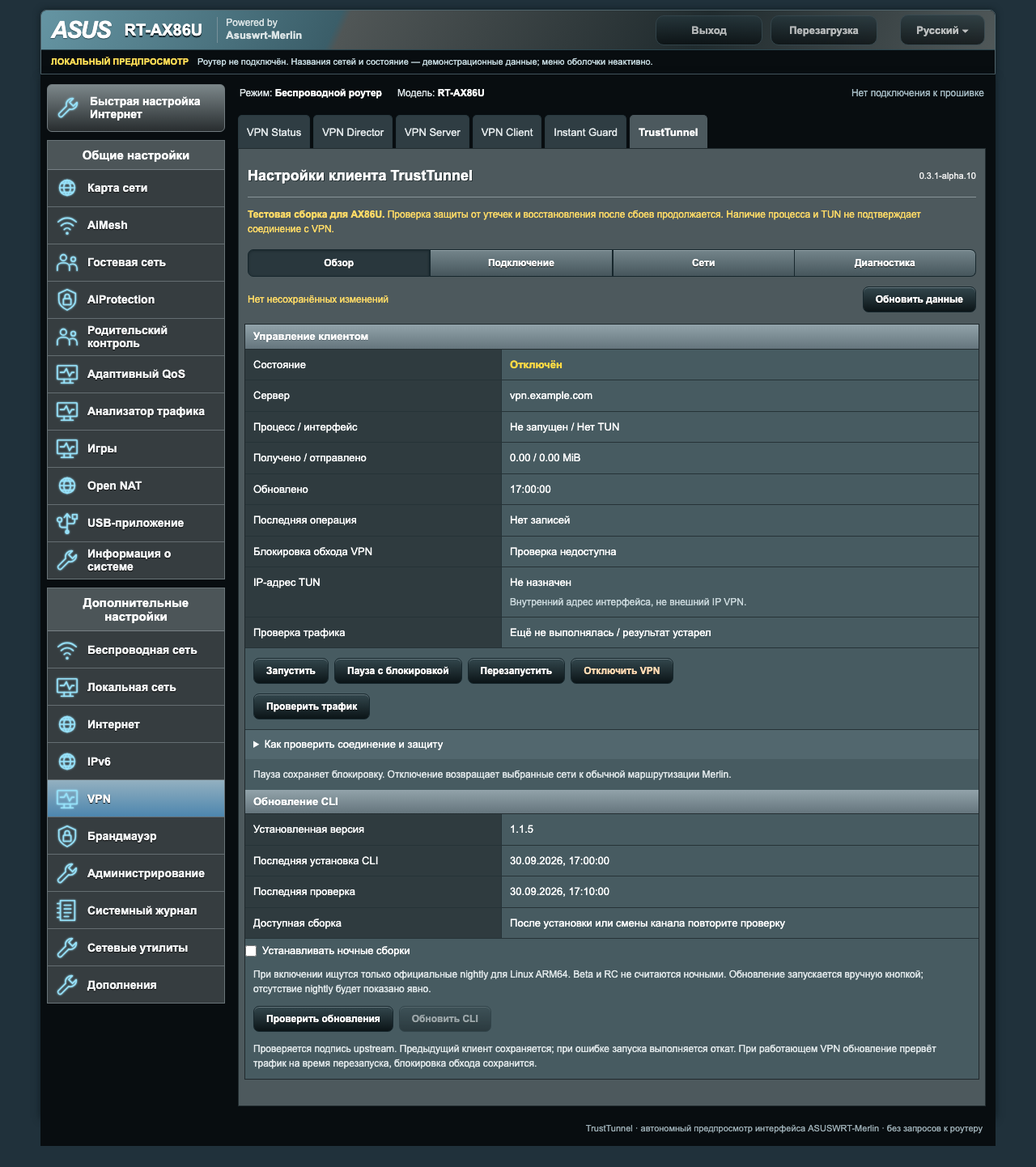
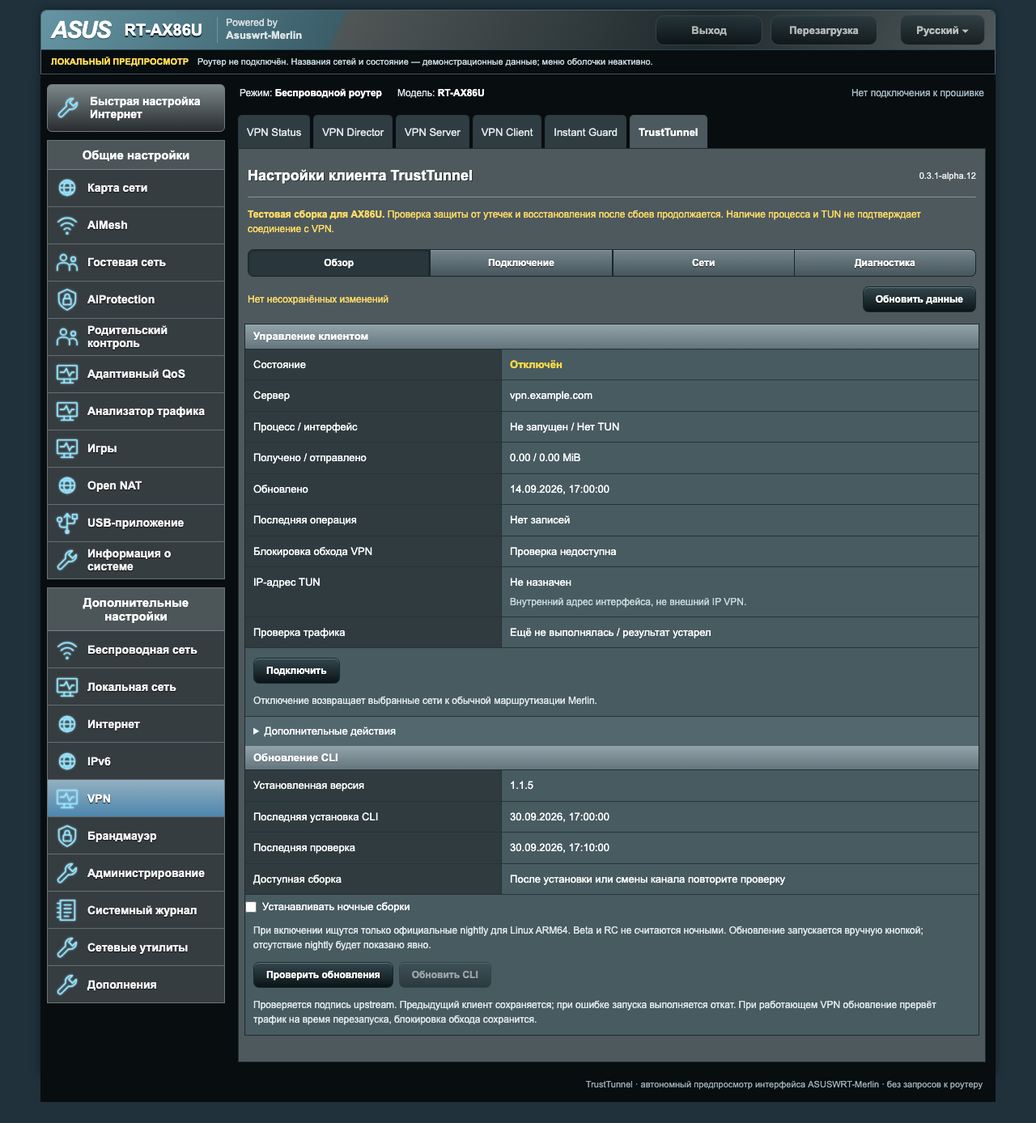
Упростить управление подключением одной кнопкой

diff --git a/preview/index.html b/preview/index.html
@@ -180,7 +180,7 @@ body{padding:0;background:#4c595e}
 .preview-tabs{padding:0 8px;gap:4px}.preview-tab{display:none;min-height:35px;padding:0 12px;font-size:12px}.preview-tab.preview-client,.preview-tab[aria-current=page]{display:flex}
 #footer{padding:12px;font-size:10px;text-align:left}
 }
-</style><script>window.TTM_PREVIEW={"version": "0.3.1-alpha.11", "state": "disabled", "hostname": "vpn.example.com", "process_running": false, "interface_up": false, "enabled": false, "connection_verified": false, "rx_bytes": 0, "tx_bytes": 0, "timestamp": 1789394400, "last_result": "preview:not_executed", "endpoint": {"configured": true, "exclusions": []}, "tunnel_addresses": [], "traffic_check": null, "client_updates": {"channel": "stable", "installed": {"version": "1.1.5", "installed_at": 1790776800}, "last_check": {"checked_at": 1790777400, "channel": "stable"}, "dependencies_ready": true, "recovery_pending": false, "check": null}, "revision": "0123456789abcdef", "operations": [], "transaction": null, "clients": [{"ip": "192.168.51.10", "name": "\u041d\u043e\u0443\u0442\u0431\u0443\u043a", "wireless": [{"lan_if": "br1", "ssid": "Guest 1"}]}, {"ip": "192.168.50.20", "name": "\u0422\u0435\u043b\u0435\u0444\u043e\u043d", "wireless": [{"lan_if": "br0", "ssid": "Home"}]}], "diagnostics": {"model": "RT-AX86U", "firmware": "\u041d\u0435 \u043f\u0440\u043e\u0432\u0435\u0440\u0435\u043d\u0430", "guard": "unverified", "client_version_target": "1.1.5", "packet_path_verified": false}, "discovered_networks": [{"lan_if": "br0", "identity": "0000000000000000000000000000000000000000000000000000000000000000", "sources": ["192.168.50.0/24"], "ssids": ["Home"]}, {"lan_if": "br1", "identity": "1111111111111111111111111111111111111111111111111111111111111111", "sources": ["192.168.51.0/24"], "ssids": ["Guest 1"]}, {"lan_if": "br2", "identity": "2222222222222222222222222222222222222222222222222222222222222222", "sources": ["192.168.52.0/24"], "ssids": ["Guest 2"]}, {"lan_if": "br3", "identity": "3333333333333333333333333333333333333333333333333333333333333333", "sources": ["192.168.53.0/24"], "ssids": ["Guest 3"]}], "policy": {"schema": 3, "networks": [{"lan_if": "br1", "sources": ["192.168.51.0/24"]}], "block_ipv6_bridge": true, "table": 871, "priority": 17100}, "hardware_tested": false};</script><script>/* TrustTunnel v1 deep links, checked against TrustTunnel v1.0.33/deeplink.
+</style><script>window.TTM_PREVIEW={"version": "0.3.1-alpha.12", "state": "disabled", "hostname": "vpn.example.com", "process_running": false, "interface_up": false, "enabled": false, "connection_verified": false, "rx_bytes": 0, "tx_bytes": 0, "timestamp": 1789394400, "last_result": "preview:not_executed", "endpoint": {"configured": true, "exclusions": []}, "tunnel_addresses": [], "traffic_check": null, "client_updates": {"channel": "stable", "installed": {"version": "1.1.5", "installed_at": 1790776800}, "last_check": {"checked_at": 1790777400, "channel": "stable"}, "dependencies_ready": true, "recovery_pending": false, "check": null}, "revision": "0123456789abcdef", "operations": [], "transaction": null, "clients": [{"ip": "192.168.51.10", "name": "\u041d\u043e\u0443\u0442\u0431\u0443\u043a", "wireless": [{"lan_if": "br1", "ssid": "Guest 1"}]}, {"ip": "192.168.50.20", "name": "\u0422\u0435\u043b\u0435\u0444\u043e\u043d", "wireless": [{"lan_if": "br0", "ssid": "Home"}]}], "diagnostics": {"model": "RT-AX86U", "firmware": "\u041d\u0435 \u043f\u0440\u043e\u0432\u0435\u0440\u0435\u043d\u0430", "guard": "unverified", "client_version_target": "1.1.5", "packet_path_verified": false}, "discovered_networks": [{"lan_if": "br0", "identity": "0000000000000000000000000000000000000000000000000000000000000000", "sources": ["192.168.50.0/24"], "ssids": ["Home"]}, {"lan_if": "br1", "identity": "1111111111111111111111111111111111111111111111111111111111111111", "sources": ["192.168.51.0/24"], "ssids": ["Guest 1"]}, {"lan_if": "br2", "identity": "2222222222222222222222222222222222222222222222222222222222222222", "sources": ["192.168.52.0/24"], "ssids": ["Guest 2"]}, {"lan_if": "br3", "identity": "3333333333333333333333333333333333333333333333333333333333333333", "sources": ["192.168.53.0/24"], "ssids": ["Guest 3"]}], "policy": {"schema": 3, "networks": [{"lan_if": "br1", "sources": ["192.168.51.0/24"]}], "block_ipv6_bridge": true, "table": 871, "priority": 17100}, "hardware_tested": false};</script><script>/* TrustTunnel v1 deep links, checked against TrustTunnel v1.0.33/deeplink.
  * Client v1.1.5 pins that implementation in trusttunnel/Cargo.lock.
  * https://github.com/TrustTunnel/TrustTunnel/blob/v1.0.33/DEEP_LINK.md
  * parseLink(uri) -> {endpoint: schema-1 object, name: string, warnings: string[]}.
@@ -539,6 +539,8 @@ body{padding:0;background:#4c595e}
         if (new TextEncoder().encode(serialized).length > 7600) throw new Error('Недостаточно места в хранилище аддонов. Используйте импорт политики по SSH.');
         return serialized;
     }
+    function connectionAction(status) { return status && status.process_running ? 'disable' : 'start'; }
+    api.connectionAction = connectionAction;
     api.policyFromNetworks = policyFromNetworks; api.makeEnvelope = makeEnvelope; api.contains=contains; api.clientsForSsid=clientsForSsid;
     if (typeof module !== 'undefined' && module.exports) module.exports = api;
     if (!root.document) return;
@@ -579,6 +581,12 @@ body{padding:0;background:#4c595e}
     }
     function message(value, error, target) { target = target || 'ttm-message'; text(target,value); el(target).className = error ? 'ttm-error' : 'ttm-note'; }
     function controls(ok) {
+        var disconnect=connectionAction(latest)==='disable';
+        text('ttm-toggle',disconnect?'Отключить':'Подключить');
+        el('ttm-toggle').classList.toggle('ttm-release',disconnect);
+        // A paused or failed client can resume without releasing its guards.
+        // Explicit release remains reachable under advanced actions.
+        el('ttm-release-guards').hidden=!(latest && latest.enabled && !latest.process_running);
         ok=ok && !!latest && (!!root.TTM_PREVIEW || Math.abs(Date.now()/1000-latest.timestamp)<150);
         document.querySelectorAll('[data-runtime]').forEach(function (button) { button.disabled = !ok || pending || !!latest.transaction; });
         document.querySelectorAll('[data-view="connection"] input,[data-view="connection"] textarea,[data-view="connection"] select,[data-view="connection"] button').forEach(function (field) { field.disabled=pending; });
@@ -848,6 +856,10 @@ body{padding:0;background:#4c595e}
         await save('exclusions',{exclusions:root.TTMConnection.exclusionsFromFields([el('ttm-exclusion-domains').value,el('ttm-exclusion-networks').value].join('\n'))});
     } catch(e) { message(e.message,true); } };
     root.ttmSaveEndpoint=async function () { try { await save('endpoint',readEndpoint()); } catch(e) { message(e.message,true); } };
+    root.ttmToggle = function () {
+        if (!latest || el('ttm-toggle').disabled) return;
+        return root.ttmAction(connectionAction(latest));
+    };
     root.ttmAction = async function (action) { try {
         if (action==='disable' && !root.confirm('Вернуть выбранные сети к обычной маршрутизации Merlin?')) return;
         if (action==='policy') { await save('policy',policy()); return; }
@@ -953,7 +965,7 @@ body{padding:0;background:#4c595e}
 <td class="ttm-sidebar"><div id="mainMenu" aria-label="Образец меню прошивки"><div class="preview-quick"><svg class="preview-icon" viewBox="0 0 32 32" aria-hidden="true"><path d="M23 4a8 8 0 0 0-9 10L4 24a3 3 0 0 0 4 4l10-10a8 8 0 0 0 10-9l-5 5-5-5z"/></svg><span>Быстрая настройка<br>Интернет</span></div><div class="preview-menu-group"><div class="preview-menu-heading">Общие настройки</div><div class="preview-menu-item"><svg class="preview-icon" viewBox="0 0 32 32" aria-hidden="true"><circle cx="16" cy="16" r="10"/><path d="M6 16h20M16 6c-6 6-6 14 0 20M16 6c6 6 6 14 0 20M8 10h16M8 22h16"/></svg><span>Карта сети</span></div><div class="preview-menu-item"><svg class="preview-icon" viewBox="0 0 32 32" aria-hidden="true"><path d="M4 12c7-7 17-7 24 0M8 17c5-5 11-5 16 0M12 22c3-3 5-3 8 0"/><circle cx="16" cy="27" r="1"/></svg><span>AiMesh</span></div><div class="preview-menu-item"><svg class="preview-icon" viewBox="0 0 32 32" aria-hidden="true"><circle cx="11" cy="10" r="4"/><circle cx="24" cy="12" r="3"/><path d="M3 27v-5c0-7 16-7 16 0v5M20 19c5-2 9 1 9 5v3"/></svg><span>Гостевая сеть</span></div><div class="preview-menu-item"><svg class="preview-icon" viewBox="0 0 32 32" aria-hidden="true"><path d="M16 3L5 8v9c0 6 5 10 11 13 6-3 11-7 11-13V8z"/><rect x="11" y="15" width="10" height="8" rx="1"/><path d="M13 15v-3a3 3 0 0 1 6 0v3"/></svg><span>AiProtection</span></div><div class="preview-menu-item"><svg class="preview-icon" viewBox="0 0 32 32" aria-hidden="true"><circle cx="11" cy="10" r="4"/><circle cx="24" cy="12" r="3"/><path d="M3 27v-5c0-7 16-7 16 0v5M20 19c5-2 9 1 9 5v3"/></svg><span>Родительский контроль</span></div><div class="preview-menu-item"><svg class="preview-icon" viewBox="0 0 32 32" aria-hidden="true"><rect x="3" y="5" width="26" height="18" rx="1"/><path d="M12 23v5M20 23v5M8 28h16M7 14h5l3-5 4 10 3-5h3"/></svg><span>Адаптивный QoS</span></div><div class="preview-menu-item"><svg class="preview-icon" viewBox="0 0 32 32" aria-hidden="true"><rect x="3" y="5" width="26" height="18" rx="1"/><path d="M12 23v5M20 23v5M8 28h16M7 14h5l3-5 4 10 3-5h3"/></svg><span>Анализатор трафика</span></div><div class="preview-menu-item"><svg class="preview-icon" viewBox="0 0 32 32" aria-hidden="true"><rect x="3" y="5" width="26" height="18" rx="1"/><path d="M12 23v5M20 23v5M8 28h16M7 14h5l3-5 4 10 3-5h3"/></svg><span>Игры</span></div><div class="preview-menu-item"><svg class="preview-icon" viewBox="0 0 32 32" aria-hidden="true"><circle cx="16" cy="16" r="10"/><path d="M6 16h20M16 6c-6 6-6 14 0 20M16 6c6 6 6 14 0 20M8 10h16M8 22h16"/></svg><span>Open NAT</span></div><div class="preview-menu-item"><svg class="preview-icon" viewBox="0 0 32 32" aria-hidden="true"><path d="M16 28V5m-4 4 4-5 4 5M16 22H9a3 3 0 0 1-3-3v-4M16 17h7a3 3 0 0 0 3-3v-2"/><circle cx="6" cy="12" r="3"/><rect x="23" y="5" width="6" height="6"/><circle cx="16" cy="28" r="2"/></svg><span>USB-приложение</span></div><div class="preview-menu-item"><svg class="preview-icon" viewBox="0 0 32 32" aria-hidden="true"><path d="M23 4a8 8 0 0 0-9 10L4 24a3 3 0 0 0 4 4l10-10a8 8 0 0 0 10-9l-5 5-5-5z"/></svg><span>Информация о системе</span></div></div><div class="preview-menu-group"><div class="preview-menu-heading">Дополнительные настройки</div><div class="preview-menu-item"><svg class="preview-icon" viewBox="0 0 32 32" aria-hidden="true"><path d="M4 12c7-7 17-7 24 0M8 17c5-5 11-5 16 0M12 22c3-3 5-3 8 0"/><circle cx="16" cy="27" r="1"/></svg><span>Беспроводная сеть</span></div><div class="preview-menu-item"><svg class="preview-icon" viewBox="0 0 32 32" aria-hidden="true"><rect x="3" y="5" width="26" height="18" rx="1"/><path d="M12 23v5M20 23v5M8 28h16M7 14h5l3-5 4 10 3-5h3"/></svg><span>Локальная сеть</span></div><div class="preview-menu-item"><svg class="preview-icon" viewBox="0 0 32 32" aria-hidden="true"><circle cx="16" cy="16" r="10"/><path d="M6 16h20M16 6c-6 6-6 14 0 20M16 6c6 6 6 14 0 20M8 10h16M8 22h16"/></svg><span>Интернет</span></div><div class="preview-menu-item"><svg class="preview-icon" viewBox="0 0 32 32" aria-hidden="true"><circle cx="16" cy="16" r="10"/><path d="M6 16h20M16 6c-6 6-6 14 0 20M16 6c6 6 6 14 0 20M8 10h16M8 22h16"/></svg><span>IPv6</span></div><div class="preview-menu-item is-active"><svg class="preview-icon" viewBox="0 0 32 32" aria-hidden="true"><rect x="3" y="5" width="26" height="18" rx="1"/><path d="M12 23v5M20 23v5M8 28h16M7 14h5l3-5 4 10 3-5h3"/></svg><span>VPN</span></div><div class="preview-menu-item"><svg class="preview-icon" viewBox="0 0 32 32" aria-hidden="true"><path d="M16 3L5 8v9c0 6 5 10 11 13 6-3 11-7 11-13V8z"/><rect x="11" y="15" width="10" height="8" rx="1"/><path d="M13 15v-3a3 3 0 0 1 6 0v3"/></svg><span>Брандмауэр</span></div><div class="preview-menu-item"><svg class="preview-icon" viewBox="0 0 32 32" aria-hidden="true"><path d="M23 4a8 8 0 0 0-9 10L4 24a3 3 0 0 0 4 4l10-10a8 8 0 0 0 10-9l-5 5-5-5z"/></svg><span>Администрирование</span></div><div class="preview-menu-item"><svg class="preview-icon" viewBox="0 0 32 32" aria-hidden="true"><path d="M7 3h19v26H7zM3 7h4M3 13h4M3 19h4M3 25h4M12 9h9M12 14h9M12 19h9M12 24h6"/></svg><span>Системный журнал</span></div><div class="preview-menu-item"><svg class="preview-icon" viewBox="0 0 32 32" aria-hidden="true"><path d="M23 4a8 8 0 0 0-9 10L4 24a3 3 0 0 0 4 4l10-10a8 8 0 0 0 10-9l-5 5-5-5z"/></svg><span>Сетевые утилиты</span></div><div class="preview-menu-item"><svg class="preview-icon" viewBox="0 0 32 32" aria-hidden="true"><path d="M23 4a8 8 0 0 0-9 10L4 24a3 3 0 0 0 4 4l10-10a8 8 0 0 0 10-9l-5 5-5-5z"/></svg><span>Дополнения</span></div></div></div><div id="subMenu"></div></td>
 <td style="vertical-align:top"><div id="tabMenu" class="submenuBlock"><div class="preview-status"><span>Режим: <b>Беспроводной роутер</b></span><span>Модель: <b>RT-AX86U</b></span><span class="preview-offline">Нет подключения к прошивке</span></div><div class="preview-tabs" aria-label="Образец вкладок VPN"><span class="preview-tab">VPN Status</span><span class="preview-tab">VPN Director</span><span class="preview-tab">VPN Server</span><span class="preview-tab preview-client">VPN Client</span><span class="preview-tab">Instant Guard</span><span class="preview-tab" aria-current="page">TrustTunnel</span></div></div>
 <div class="FormTitle ttm-container">
-<div class="ttm-heading ttm-titlebar"><h2>Настройки клиента TrustTunnel</h2><span class="ttm-badge" id="ttm-version">0.3.1-alpha.11</span></div>
+<div class="ttm-heading ttm-titlebar"><h2>Настройки клиента TrustTunnel</h2><span class="ttm-badge" id="ttm-version">0.3.1-alpha.12</span></div>
 <div class="ttm-banner"><strong>Тестовая сборка для AX86U.</strong> Проверка защиты от утечек и восстановления после сбоев продолжается. Наличие процесса и TUN не подтверждает соединение с VPN.</div>
 <div class="ttm-tabs ttm-navigation" role="tablist" aria-label="Настройки TrustTunnel">
 <button role="tab" type="button" data-view-button="overview" onclick="ttmView('overview')">Обзор</button>
@@ -978,15 +990,18 @@ body{padding:0;background:#4c595e}
 <dt>Проверка трафика</dt><dd id="ttm-traffic-check">Ещё не выполнялась</dd>
 </dl>
 <p id="ttm-startup" class="ttm-note" role="status" hidden></p>
+<div class="ttm-actions"><button id="ttm-toggle" type="button" class="ttm-primary" data-runtime onclick="ttmToggle()" disabled>Подключить</button></div>
+<p class="ttm-muted">Отключение возвращает выбранные сети к обычной маршрутизации Merlin.</p>
+<details id="ttm-advanced-actions"><summary>Дополнительные действия</summary>
 <div class="ttm-actions">
-<button type="button" data-runtime onclick="ttmAction('start')" disabled>Запустить</button>
 <button type="button" data-runtime onclick="ttmAction('pause')" disabled>Пауза с блокировкой</button>
 <button type="button" data-runtime onclick="ttmAction('restart')" disabled>Перезапустить</button>
-<button type="button" class="ttm-release" data-runtime onclick="ttmAction('disable')" disabled>Отключить VPN</button>
+<button type="button" data-runtime onclick="ttmAction('verify_traffic')" disabled>Проверить трафик</button>
+<button id="ttm-release-guards" type="button" class="ttm-release" data-runtime onclick="ttmAction('disable')" disabled hidden>Снять блокировку и отключить VPN</button>
 </div>
-<div class="ttm-actions"><button type="button" data-runtime onclick="ttmAction('verify_traffic')" disabled>Проверить трафик</button></div>
-<details><summary>Как проверить соединение и защиту</summary><p>Подключите устройство к выбранной сети, нажмите «Проверить трафик» и в течение 10 секунд откройте сайт. Панель проверит правила, маршрут и прохождение пакетов в обе стороны. Отсутствие пакетов при простое не означает ошибку.</p><p>Для полной проверки блокировки обхода нужен отдельный тест: на подготовленном устройстве открыть сайт, включить «Пауза с блокировкой», убедиться, что Интернет недоступен, затем запустить клиент. Такая проверка временно отключает Интернет выбранных сетей и не запускается автоматически. Исключения из VPN проверяйте отдельно.</p></details>
-<p class="ttm-muted">Пауза сохраняет блокировку. Отключение возвращает выбранные сети к обычной маршрутизации Merlin.</p>
+<p class="ttm-muted">Пауза останавливает клиент и сохраняет блокировку обхода VPN. Чтобы продолжить, нажмите «Подключить». После паузы или ошибки запуска блокировку можно снять отдельной кнопкой в этом разделе; выбранные сети вернутся к обычной маршрутизации Merlin.</p>
+<details><summary>Как проверить соединение и защиту</summary><p>Подключите устройство к выбранной сети, нажмите «Проверить трафик» и в течение 10 секунд откройте сайт. Панель проверит правила, маршрут и прохождение пакетов в обе стороны. Отсутствие пакетов при простое не означает ошибку.</p><p>Для полной проверки блокировки обхода нужен отдельный тест: на подготовленном устройстве открыть сайт, включить «Пауза с блокировкой», убедиться, что Интернет недоступен, затем нажать «Подключить». Такая проверка временно отключает Интернет выбранных сетей и не запускается автоматически. Исключения из VPN проверяйте отдельно.</p></details>
+</details>
 <div class="ttm-heading"><h3>Обновление CLI</h3></div>
 <dl class="ttm-grid"><dt>Установленная версия</dt><dd id="ttm-client-version">—</dd><dt>Последняя установка CLI</dt><dd id="ttm-client-installed-at">Дата неизвестна</dd><dt>Последняя проверка</dt><dd id="ttm-client-checked-at">Ещё не выполнялась</dd><dt>Доступная сборка</dt><dd id="ttm-client-update">Обновления ещё не проверялись</dd></dl>
 <label class="ttm-check"><input type="checkbox" id="ttm-nightly" onchange="ttmAction(this.checked?'channel_nightly':'channel_stable')"> Устанавливать ночные сборки</label>

diff --git a/tools/test-browser-controls.js b/tools/test-browser-controls.js
@@ -1,0 +1,105 @@
+'use strict';
+// Native command flow in an offline browser. No real router or network changes.
+const assert = require('node:assert/strict'), fs = require('node:fs'), path = require('node:path');
+const {chromium} = require('playwright');
+const html = fs.readFileSync(path.resolve(__dirname, '../preview/index.html'), 'utf8');
+const fixture = JSON.parse(html.match(/window\.TTM_PREVIEW=(.*?);<\/script>/s)[1]);
+const document = html.replace(/window\.TTM_PREVIEW=.*?;<\/script>/s, '</script>');
+(async () => {
+    const browser = await chromium.launch({headless:true, ...(process.env.TTM_CHROMIUM_PATH ? {executablePath:process.env.TTM_CHROMIUM_PATH} : {})});
+    const context = await browser.newContext(), page = await context.newPage(), commands = [], errors = [];
+    const state = {...fixture, timestamp:Math.floor(Date.now()/1000), enabled:false, process_running:false, interface_up:false, state:'disabled', transaction:null, operations:[]};
+    let finish = null, outcome = 'success', accept = true, confirmations = 0;
+    page.on('pageerror', error => errors.push(String(error)));
+    page.on('dialog', async dialog => { confirmations++; await (accept ? dialog.accept() : dialog.dismiss()); });
+    await context.route('**/*', async route => {
+        const url = new URL(route.request().url());
+        if (url.origin !== 'https://router.test') return route.abort();
+        if (url.pathname === '/user1.asp') return route.fulfill({contentType:'text/html',body:document});
+        if (url.pathname.endsWith('/status.json')) return route.fulfill({json:state});
+        if (url.pathname === '/start_apply.htm') {
+            const command = new URLSearchParams(route.request().postData()).get('action_script');
+            const match = command.match(/^start_ttm_do_([a-f0-9]{16})_(start|disable|pause)$/);
+            assert.ok(match, 'only the selected existing native command may be sent');
+            commands.push(match[2]);
+            const op = {id:match[1], action:match[2], state:'running', code:'', revision:state.revision};
+            state.operations = [op];
+            finish = () => {
+                op.state = outcome==='failure' ? 'failed' : 'succeeded';
+                op.code = outcome==='failure' ? 'action_failed' : 'completed';
+                if (outcome!=='failure') {
+                    state.enabled = match[2]!=='disable';
+                    state.process_running = state.interface_up = match[2]==='start';
+                    state.state = match[2]==='start' ? 'tun_ready_unverified' : match[2]==='pause' ? 'paused_protected' : 'disabled';
+                }
+            };
+            if (outcome!=='pending') finish();
+            return route.fulfill({body:'queued'});
+        }
+        return route.abort();
+    });
+    async function completed() {
+        await page.waitForFunction(() => !document.getElementById('ttm-toggle').disabled);
+    }
+    async function render() {
+        await page.evaluate(() => window.done_validating());
+        await page.waitForTimeout(150);
+    }
+    try {
+        await page.goto('https://router.test/user1.asp');
+        await completed();
+        const toggle = page.locator('#ttm-toggle'), release = page.locator('#ttm-release-guards');
+        assert.equal(await toggle.innerText(), 'Подключить');
+        assert.equal(await page.locator('#ttm-advanced-actions').getAttribute('open'), null);
+        assert.equal(await page.getByRole('button',{name:'Пауза с блокировкой',exact:true}).count(), 0);
+        assert.equal(await release.isVisible(), false);
+        outcome = 'pending';
+        const queued = page.waitForResponse(response => new URL(response.url()).pathname==='/start_apply.htm');
+        await toggle.click();
+        await queued;
+        await page.waitForFunction(() => document.getElementById('ttm-toggle').disabled);
+        await page.evaluate(() => { window.ttmToggle(); window.ttmToggle(); });
+        assert.equal(commands.length, 1, 'duplicate clicks cannot queue a second start');
+        outcome = 'success'; finish();
+        await completed();
+        assert.equal(await toggle.innerText(), 'Отключить');
+        assert.deepEqual(commands, ['start']);
+        accept = false;
+        await toggle.click();
+        assert.equal(confirmations, 1);
+        assert.deepEqual(commands, ['start'], 'cancel must leave VPN running');
+        assert.equal(await toggle.innerText(), 'Отключить');
+        accept = true;
+        await toggle.click();
+        await completed();
+        assert.deepEqual(commands, ['start', 'disable']);
+        assert.equal(await toggle.innerText(), 'Подключить');
+        await toggle.click(); await completed();
+        await page.locator('#ttm-advanced-actions > summary').click();
+        await page.getByRole('button',{name:'Пауза с блокировкой',exact:true}).click();
+        await completed();
+        assert.equal(await toggle.innerText(), 'Подключить', 'pause offers guarded resume');
+        assert.equal(await release.isVisible(), true, 'explicit release remains possible while paused');
+        assert.equal(state.enabled, true);
+        outcome = 'failure';
+        await toggle.click(); await completed();
+        assert.match(await page.locator('#ttm-message').innerText(), /ошибкой/);
+        assert.equal(await toggle.innerText(), 'Подключить', 'failed resume must not pretend to be connected');
+        assert.equal(await release.isVisible(), true);
+        outcome = 'success';
+        await release.click(); await completed();
+        assert.equal(state.enabled, false);
+        assert.equal(await release.isVisible(), false);
+        state.transaction = {id:'0123456789abcdef', deadline:Math.floor(Date.now()/1000)+180};
+        await render();
+        assert.equal(await toggle.isDisabled(), true, 'trial migration still gates runtime actions');
+        state.transaction = null; state.timestamp -= 86400;
+        await render();
+        assert.equal(await toggle.isDisabled(), true, 'stale status must not choose a command');
+        const count = commands.length;
+        await page.evaluate(() => window.ttmToggle());
+        assert.equal(commands.length, count);
+        assert.deepEqual(errors, []);
+        console.log('PASS: one stateful connect/disconnect button; advanced actions collapsed; pending double click blocked; disable confirmation/cancel; guarded pause/resume and failed start; explicit guard release; transaction/stale gating; no external network');
+    } finally { await context.close(); await browser.close(); }
+})().catch(error => { console.error(error); process.exitCode = 1; });

diff --git a/addon/web/trusttunnel.js b/addon/web/trusttunnel.js
@@ -56,6 +56,8 @@
         if (new TextEncoder().encode(serialized).length > 7600) throw new Error('Недостаточно места в хранилище аддонов. Используйте импорт политики по SSH.');
         return serialized;
     }
+    function connectionAction(status) { return status && status.process_running ? 'disable' : 'start'; }
+    api.connectionAction = connectionAction;
     api.policyFromNetworks = policyFromNetworks; api.makeEnvelope = makeEnvelope; api.contains=contains; api.clientsForSsid=clientsForSsid;
     if (typeof module !== 'undefined' && module.exports) module.exports = api;
     if (!root.document) return;
@@ -96,6 +98,12 @@
     }
     function message(value, error, target) { target = target || 'ttm-message'; text(target,value); el(target).className = error ? 'ttm-error' : 'ttm-note'; }
     function controls(ok) {
+        var disconnect=connectionAction(latest)==='disable';
+        text('ttm-toggle',disconnect?'Отключить':'Подключить');
+        el('ttm-toggle').classList.toggle('ttm-release',disconnect);
+        // A paused or failed client can resume without releasing its guards.
+        // Explicit release remains reachable under advanced actions.
+        el('ttm-release-guards').hidden=!(latest && latest.enabled && !latest.process_running);
         ok=ok && !!latest && (!!root.TTM_PREVIEW || Math.abs(Date.now()/1000-latest.timestamp)<150);
         document.querySelectorAll('[data-runtime]').forEach(function (button) { button.disabled = !ok || pending || !!latest.transaction; });
         document.querySelectorAll('[data-view="connection"] input,[data-view="connection"] textarea,[data-view="connection"] select,[data-view="connection"] button').forEach(function (field) { field.disabled=pending; });
@@ -365,6 +373,10 @@
         await save('exclusions',{exclusions:root.TTMConnection.exclusionsFromFields([el('ttm-exclusion-domains').value,el('ttm-exclusion-networks').value].join('\n'))});
     } catch(e) { message(e.message,true); } };
     root.ttmSaveEndpoint=async function () { try { await save('endpoint',readEndpoint()); } catch(e) { message(e.message,true); } };
+    root.ttmToggle = function () {
+        if (!latest || el('ttm-toggle').disabled) return;
+        return root.ttmAction(connectionAction(latest));
+    };
     root.ttmAction = async function (action) { try {
         if (action==='disable' && !root.confirm('Вернуть выбранные сети к обычной маршрутизации Merlin?')) return;
         if (action==='policy') { await save('policy',policy()); return; }

diff --git a/tools/test-browser-status.js b/tools/test-browser-status.js
@@ -32,19 +32,19 @@ const document = html.replace(/window\.TTM_PREVIEW=.*?;<\/script>/s, '</script>'
     try {
         await page.goto('https://router.test/user1.asp');
         await page.waitForFunction(() => document.getElementById('ttm-message').textContent.includes('Статус не обновляется'));
-        assert.ok(await page.getByRole('button',{name:'Пауза с блокировкой',exact:true}).isDisabled());
+        assert.ok(await page.locator('#ttm-toggle').isDisabled());
         assert.match(await page.locator('#ttm-age').innerText(), /\d{2}\.\d{2}\.\d{4}/);
         assert.ok(!(await page.locator('#ttm-message').innerText()).includes('обновления контроллера'));
         await page.getByRole('button',{name:'Обновить данные',exact:true}).click();
         await page.waitForFunction(() => document.getElementById('ttm-message').textContent === 'Статус обновлён.');
         assert.equal(commands.length, 1);
-        assert.equal(await page.getByRole('button',{name:'Пауза с блокировкой',exact:true}).isDisabled(), false);
+        assert.equal(await page.locator('#ttm-toggle').isDisabled(), false);
         state.health = {details_ready:false,error:'nvram_unavailable'};
         await page.evaluate(() => window.done_validating());
         await page.waitForFunction(() => document.getElementById('ttm-message').textContent.includes('сведения о Wi-Fi'));
         assert.equal(await page.locator('#ttm-policy-fields').evaluate(fieldset => fieldset.disabled), true);
         assert.equal(await page.locator('#ttm-save').isDisabled(), true);
-        assert.equal(await page.getByRole('button',{name:'Пауза с блокировкой',exact:true}).isDisabled(), false);
+        assert.equal(await page.locator('#ttm-toggle').isDisabled(), false);
         state.health = {details_ready:true,error:''};
         await page.evaluate(() => window.done_validating());
         await page.waitForFunction(() => document.getElementById('ttm-message').textContent === 'Статус обновлён.');

diff --git a/tests/test_web.js b/tests/test_web.js
@@ -10,6 +10,16 @@ const policy = (rows = [row()], acknowledge = true) => api.policyFromNetworks(ro
 const legacy = () => ({schema: 1, lan_if: 'br1', sources: ['192.168.50.0/24', '10.0.0.1/32'], dns_ipv4: '1.1.1.1', block_ipv6_bridge: true, table: 871, priority: 17100});
 const decode = p => JSON.parse(atob(JSON.parse(api.makeEnvelope({}, p)).ttm_policy));
 
+test('primary action follows process state without treating TUN as verified connectivity', () => {
+    assert.equal(api.connectionAction(null), 'start');
+    for (const state of ['disabled', 'paused_protected', 'blocked_or_start_failed']) {
+        assert.equal(api.connectionAction({state, enabled:state!=='disabled', process_running:false, interface_up:true}), 'start');
+    }
+    assert.equal(api.connectionAction({enabled:true, process_running:true, interface_up:true}), 'disable');
+    assert.equal(api.connectionAction({enabled:true, process_running:true, interface_up:false}), 'disable');
+    assert.equal(api.connectionAction({enabled:false, process_running:true}), 'disable');
+});
+
 test('SSID clients use actual association, not shared subnet alone', () => {
     const network={lan_if:'br0',sources:['192.168.50.0/24']};
     const wireless=(lan_if,ssid)=>({lan_if,ssid});

diff --git a/tools/test-browser-transport.js b/tools/test-browser-transport.js
@@ -91,7 +91,7 @@ endpoint.password='synthetic-browser-秘密-😀'; endpoint.username='synthetic-
         assert.equal(await page.locator('#ttm-password').inputValue(),endpoint.password);
         assert.equal(await page.locator('#ttm-message').getAttribute('class'),'ttm-error');
         await page.getByRole('tab',{name:'Обзор',exact:true}).click();
-        await page.getByRole('button',{name:'Запустить',exact:true}).click();
+        await page.getByRole('button',{name:'Подключить',exact:true}).click();
         await page.waitForFunction(()=>document.getElementById('ttm-message').textContent.includes('Выберите сети'),{},{timeout:30000});
         assert.equal(await page.locator('#ttm-message').getAttribute('class'),'ttm-error');
         assert.deepEqual(errors,[]);

diff --git a/tools/test-preview.js b/tools/test-preview.js
@@ -87,7 +87,7 @@ async function exercise(browser, viewport, screenshot) {
         assert.equal(await page.locator('input.ttm-bridge, textarea.ttm-bridge, select.ttm-bridge').count(), 0, 'bridge must not be user-editable');
         assert.equal(await page.getByRole('button', {name: 'Добавить сеть', exact: true}).count(), 0);
         assert.equal(await page.locator('.ttm-remove').count(), 0);
-        await page.getByRole('button', {name: 'Запустить', exact: true}).click();
+        await page.getByRole('button', {name: 'Подключить', exact: true}).click();
         assert.match(await page.locator('#ttm-message').innerText(), /Демонстрация/);
         await page.getByRole('tab', {name:'Подключение',exact:true}).click();
 

diff --git a/README.md b/README.md
@@ -4,7 +4,7 @@
 
 Нативная веб-панель клиента [TrustTunnel](https://github.com/TrustTunnel/TrustTunnelClient) для ASUSWRT-Merlin. Открывается в **VPN → TrustTunnel**, использует штатный веб-сервер роутера и оформление Merlin.
 
-**Версия исходников: 0.3.1-alpha.11.** Исправление зависшего статуса проверено локально и как hotfix на RT-AX86U; новая версия пока не опубликована. Последний публичный релиз — [alpha.10](https://github.com/VitaliyYakob/asuswrt-merlin-trusttunnel/releases/tag/v0.3.1-alpha.10). Это экспериментальная сборка. Работа гостевой сети, обновление CLI и пауза с блокировкой проверены на RT-AX86U; полная проверка защиты от утечек и восстановления после сбоев продолжается. [Фактический отчёт](docs/TEST-REPORT.md), [план аппаратных испытаний](docs/HARDWARE-TESTS.md).
+**Версия исходников: 0.3.1-alpha.12.** Упрощено управление подключением; новая версия пока не опубликована. Исправление зависшего статуса alpha.11 проверено локально и как hotfix на RT-AX86U. Последний публичный релиз — [alpha.10](https://github.com/VitaliyYakob/asuswrt-merlin-trusttunnel/releases/tag/v0.3.1-alpha.10). Это экспериментальная сборка. Работа гостевой сети, обновление CLI и пауза с блокировкой проверены на RT-AX86U; полная проверка защиты от утечек и восстановления после сбоев продолжается. [Фактический отчёт](docs/TEST-REPORT.md), [план аппаратных испытаний](docs/HARDWARE-TESTS.md).
 
 ## Возможности
 
@@ -49,7 +49,7 @@
 
 ## Установка по ссылке
 
-Подключитесь к роутеру по SSH. Если аддон уже работает, сначала нажмите **«Отключить VPN»**, завершите пробное применение/восстановление и только затем обновляйте сам аддон.
+Подключитесь к роутеру по SSH. Если аддон уже работает, сначала нажмите **«Отключить»**, завершите пробное применение/восстановление и только затем обновляйте сам аддон.
 
 ```sh
 curl -sfL https://raw.githubusercontent.com/VitaliyYakob/asuswrt-merlin-trusttunnel/main/install-online.sh | sh -s -- --lab-only
@@ -78,10 +78,12 @@ opkg install /tmp/asuswrt-merlin-trusttunnel_0.3.1-alpha.10-1_aarch64-3.10.ipk
 
 1. В **«Подключении»** введите параметры или разберите `tt://`, затем сохраните подключение. Пароль и полный сохранённый профиль обратно в браузер не возвращаются; сохранённые исключения редактируются отдельно.
 2. В **«Сетях»** выберите нужную сеть и сохраните маршрутизацию. Для первого испытания удобно использовать гостевую сеть, оставив основную для управления роутером.
-3. Запустите клиент. С устройства выбранной сети проверьте сайты и внешний IP, отключив мобильный Интернет и другие VPN на устройстве.
+3. Нажмите **«Подключить»**. С устройства выбранной сети проверьте сайты и внешний IP, отключив мобильный Интернет и другие VPN на устройстве.
 4. Если меняете настройки при работающем VPN, подтвердите успешное применение в течение указанного в панели срока; иначе контроллер начнёт откат.
 
-**Пауза с блокировкой** останавливает клиент и сохраняет блокировку обхода VPN. **Отключить VPN** возвращает выбранный трафик к обычной маршрутизации Merlin.
+Основная кнопка показывает **«Подключить»**, когда процесс клиента остановлен, и **«Отключить»**, когда он запущен. Отключение возвращает выбранный трафик к обычной маршрутизации Merlin и требует подтверждения.
+
+В **«Дополнительных действиях»** доступны пауза с блокировкой, перезапуск и проверка трафика. После паузы или ошибки запуска нажмите **«Подключить»**, чтобы возобновить VPN с сохранённой защитой. Если требуется вернуть обычный Интернет без VPN, выберите **«Снять блокировку и отключить VPN»** в этом разделе.
 
 ## Исключения и сети
 

diff --git a/docs/TEST-REPORT.md b/docs/TEST-REPORT.md
@@ -1,6 +1,16 @@
-# Фактические проверки 0.3.1-alpha.11
+# Фактические проверки 0.3.1-alpha.12
 
 Имена SSID и адреса локальных сетей в публикуемом отчёте заменены демонстрационными значениями; интерфейсы, версии, результаты и область проверок сохранены.
+
+## Упрощение управления alpha.12 — 18.10.2026
+
+Основная кнопка выбирает существующие start/disable по состоянию процесса. Пауза, перезапуск и проверка трафика свёрнуты; при остановленном защищённом клиенте доступны возобновление и отдельное явное снятие блокировки. Команды контроллера и правила маршрутизации не менялись.
+
+**Локальные проверки PASS:** `make test` — 257 Python tests (108.587 s), JavaScript 21/35/6 групп; `make lint` — ShellCheck 0.10.0. `make preview`, полный `make browser-test` и дополнительный повтор нового сценария управления прошли. В браузере проверены start → disable, отмена подтверждения, повторный клик во время ожидания, пауза → возобновление с ошибкой, явное снятие блокировки, запрет действий при устаревшем статусе/пробном применении. Запросы перехватываются локальной моделью, настоящий роутер в этих сценариях не используется. `make screenshots` обновил снимки с демонстрационными данными; оформление обзора проверено визуально. Gitleaks 8.30.1: рабочее дерево без обнаруженных секретов.
+
+**Применение на RT-AX86U PASS в указанном объёме:** 18.10.2026 в 19:46:37 МСК заменены четыре файла runtime, их копии payload и публичные JS/ASP; опубликован versioned CSS alpha.12. Исходные файлы и приватная конфигурация с прежними правами сохранены в `/opt/ttm-setup-alpha12-ui-20261018/before` (контейнер 0700). Замена выполнена под существующим control.lock с проверкой хешей alpha.11, без start/pause/disable/restart, изменения cron или сетевых команд записи. Read-only операция status подтвердила version alpha.12, process/interface true, health.details_ready true. PID/starttime, SHA-256 CLI, полный набор приватных файлов, main routes, ip rules и cron совпали с резервом. Адресный откат к alpha.11: `/opt/ttm-setup-alpha12-ui-20261018/rollback-ui.sh`; он проверяет хеши установленной версии и восстанавливает только код/ресурсы. Ветка отката не выполнялась.
+
[1 lines of base64/hex data omitted]
 
 ## Исправление зависшего статуса alpha.11 — 17.10.2026
 

diff --git a/docs/STATUS.md b/docs/STATUS.md
@@ -1,8 +1,10 @@
-# Состояние 0.3.1-alpha.11
+# Состояние 0.3.1-alpha.12
 
-Исправление alpha.11 применено на RT-AX86U как точечное обновление runtime/payload без остановки клиента. Статус снова публикуется по расписанию; изолированный тест зависания на firmware ash/GNU timeout прошёл. PID/starttime клиента, приватная конфигурация и main routes сохранены; cron восстановил отсутствовавшее собственное правило 17100 из прежней политики. Проверены 257 Python tests, JavaScript, ShellCheck и браузерные сценарии; финальный пассивный аппаратный тест подтвердил ожидаемые правила и 8/7 пакетов через TUN; подробности — [TEST-REPORT.md](TEST-REPORT.md). Регистрация opkg остаётся alpha.10-1; новый IPK alpha.11 собран локально. Публичный релиз alpha.10 и его файлы не изменены.
+Alpha.12 упрощает управление: одна основная кнопка «Подключить / Отключить», дополнительные действия свёрнуты. После паузы или ошибки запуска доступны возобновление с сохранением защиты и отдельное явное снятие блокировки с подтверждением. Сетевые команды контроллера не изменены.
 
-Имя проекта: **asuswrt-merlin-trusttunnel**. Публичный [репозиторий](https://github.com/VitaliyYakob/asuswrt-merlin-trusttunnel), опубликованный [предварительный релиз alpha.10 с файлами установки](https://github.com/VitaliyYakob/asuswrt-merlin-trusttunnel/releases/tag/v0.3.1-alpha.10). На действующем RT-AX86U работают **runtime alpha.11 (hotfix поверх IPK alpha.10) / официальный CLI 1.1.7**, выбранный гостевой VPN включён. Конфигурация и история CLI сохранены побайтово; после установки проверены реальные пакеты через tt0 и ожидаемые правила.
+Версия применена на RT-AX86U 18.10.2026 как точечное обновление runtime/payload без остановки клиента. PID/starttime, приватная конфигурация, CLI, main routes, ip rules и cron сохранены. Резерв и адресный откат находятся в приватном каталоге `/opt/ttm-setup-alpha12-ui-20261018`. Локально прошли 257 Python tests, JavaScript 21/35/6 групп, ShellCheck, браузерные сценарии, создание снимков и проверка секретов. Точный объём и ограничения — в [TEST-REPORT.md](TEST-REPORT.md).
+
+Имя проекта: **asuswrt-merlin-trusttunnel**. Последний публичный [релиз alpha.10](https://github.com/VitaliyYakob/asuswrt-merlin-trusttunnel/releases/tag/v0.3.1-alpha.10) не изменён. На действующем RT-AX86U работают **runtime alpha.12 (hotfix поверх IPK alpha.10) / официальный CLI 1.1.7**; регистрация opkg остаётся alpha.10-1. Новый IPK alpha.12 собран локально, но его установка и удалённый CI этой версии не проверены. Исправление зависшего статуса alpha.11 сохранено; его аппаратные результаты описаны отдельно в отчёте.
 
 ## Готово
 

diff --git a/CHANGELOG.md b/CHANGELOG.md
@@ -1,3 +1,9 @@
+# 0.3.1-alpha.12 — 2026-10-18
+
+- Запуск и явное отключение объединены в основную кнопку «Подключить / Отключить». Подпись следует состоянию процесса; наличие TUN по-прежнему не объявляется подтверждением связи.
+- Пауза с блокировкой, перезапуск и проверка трафика перенесены в свёрнутый раздел «Дополнительные действия». После паузы/ошибки основная кнопка запускает клиент с сохранённой защитой; в дополнительных действиях доступно явное снятие блокировки с прежним подтверждением.
+- Сохранены ограничения устаревшего статуса, незавершённой операции и пробного применения. Добавлены регрессии переключения, отмены отключения, повторного клика и восстановления после паузы/ошибки.
+
 # 0.3.1-alpha.11 — 2026-10-17
 
 - Исправлено зависание контроллера при чтении NVRAM: ограниченное время запроса, принудительное завершение после grace period, отбрасывание частичного вывода и 30-секундная пауза перед повтором после ошибки.

diff --git a/AGENTS.md b/AGENTS.md
@@ -6,6 +6,7 @@ No separate HTTP daemon, REST server, Docker, Node/Python runtime on the router,
 ## Ground truth
 - Installation, guest packet flow, signed CLI update, pause/resume and alpha.6 purge have been exercised on RT-AX86U / Merlin 3004.388.12_2 / kernel 4.1.52. Alpha.10 IPK installation over the owned native addon, keep-config package removal and restoration to alpha.9 were exercised; the active router is now alpha.10 / CLI 1.1.7. Consult docs/TEST-REPORT.md for exact scope. Clean IPK setup, package upgrade, purge alpha.10 and full leak/recovery coverage remain unverified. Never mark hardware tests PASS from mocks, generated plans or screenshots.
 - Alpha.11 runtime/payload hotfix restored status publication on 2026-10-17 without restarting the client; opkg registration remains alpha.10-1. Host checks passed; no remote CI for alpha.11 has been observed. Consult docs/TEST-REPORT.md before extending hardware or package claims.
+- Alpha.12 UI/version hotfix applied on 2026-10-18 without restarting the client or changing config/routes/rules/cron; runtime/payload alpha.12, opkg registration alpha.10-1. Host tests/browser command simulation passed; real WebUI toggle clicks, IPK alpha.12 installation and remote CI remain unverified. See docs/TEST-REPORT.md.
 - Primary target: RT-AX86U aarch64. The distribution support floor is Merlin 3004.388.12; earlier firmware and other models are untested.
 - Runtime uses /bin/sh (BusyBox ash), jq, iproute2, iptables/ip6tables and flock.
 - Core schema is based on upstream TrustTunnelClient v1.1.5. Verify upstream before adding fields.
